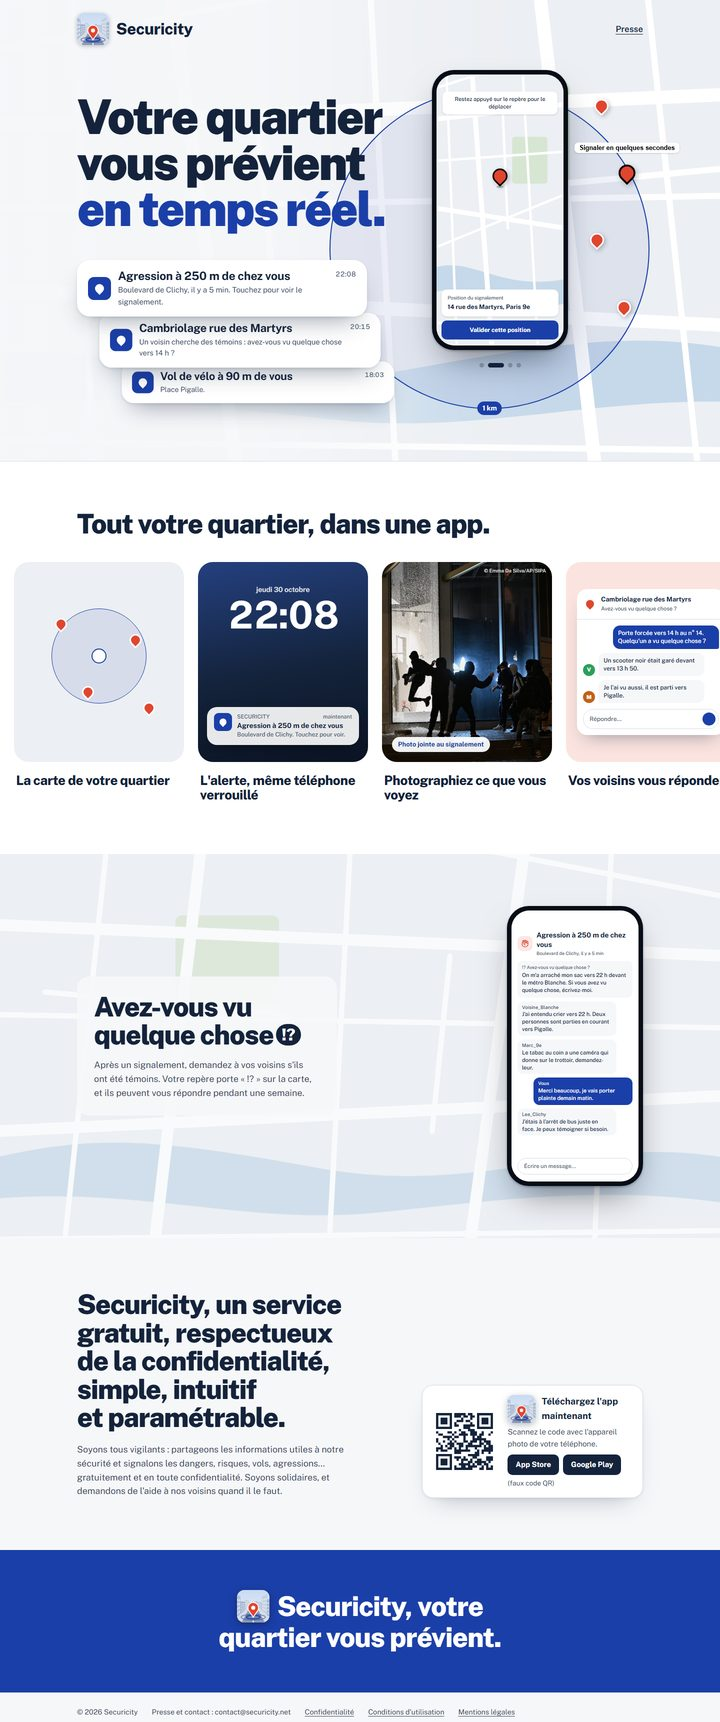
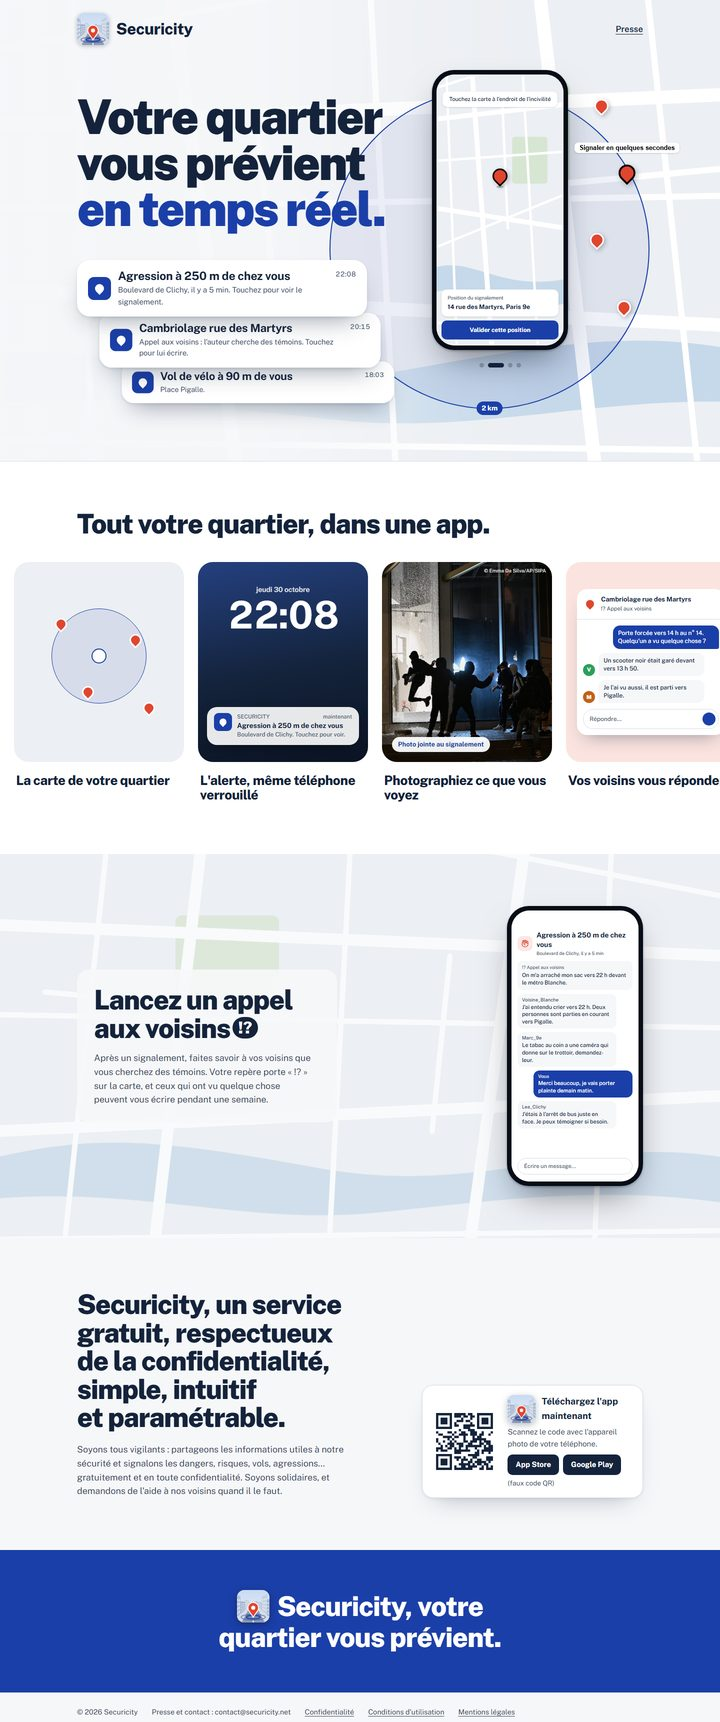
Site : « Appel aux voisins », rayon de 2 à 3 km, repère posé d'un toucher ; captures du README à jour

Changed region(s): [[0.1222, 0.554, 0.4278, 0.6463], [0.7333, 0.554, 0.8861, 0.6771], [0.2139, 0.1847, 0.2444, 0.2154]]

diff --git a/index.html b/index.html
@@ -12,7 +12,7 @@
 <link rel="stylesheet" href="https://fonts.googleapis.com/css2?family=Public+Sans:wght@400..900&display=swap">
 <style>
 /* Accueil épuré : la carte, le téléphone, le titre. Le reste se découvre en descendant :
-   les alertes qui tombent une à une sous le titre, le carrousel des fonctions, la discussion « Avez-vous vu quelque chose ? ». */
+   les alertes qui tombent une à une sous le titre, le carrousel des fonctions, l’appel aux voisins et sa discussion. */
 :root{
   --bleu:#1B3FA8; --encre:#14233B; --texte2:#3B4960; --rouge:#E0452F; --police:#0B2A6F;
   --fond:#F6F7F9; --blanc:#FFFFFF; --filet:#D5DBE4;
@@ -185,7 +185,7 @@ h1 em{font-style:normal;color:var(--bleu)}
 .v-types .type svg{width:15px;height:15px}
 .v-types .type.choisi{outline:2px solid var(--bleu);background:#F1F4FC}
 
-/* ---------- Avez-vous vu quelque chose ? ---------- */
+/* ---------- Appel aux voisins ---------- */
 .temoins{position:relative;overflow:hidden;background:var(--sol)}
 .temoins .fond{position:absolute;inset:0;width:100%;height:100%;opacity:.7}
 .temoins .in{position:relative;max-width:1180px;margin:0 auto;padding:104px 24px;display:grid;grid-template-columns:minmax(0,1fr) auto;gap:48px 80px;align-items:center}
@@ -297,7 +297,7 @@ h1 em{font-style:normal;color:var(--bleu)}
 
 <section class="accueil">
   <svg class="fond" viewBox="0 0 1600 900" preserveAspectRatio="xMidYMid slice" aria-hidden="true"><use href="#quartier"/></svg>
-  <div class="zone" aria-hidden="true"><span>1 km</span></div>
+  <div class="zone" aria-hidden="true"><span>2 km</span></div>
   <div class="chez" aria-hidden="true"><i data-lucide="map-pin-house"></i></div>
 
   <header class="entete"><a class="marque" href="/" aria-label="Securicity, accueil"><img class="icone-app" src="/images/icone.svg" alt="" width="44" height="44">Securicity</a><a class="presse" href="#pied">Presse</a></header>
@@ -306,7 +306,7 @@ h1 em{font-style:normal;color:var(--bleu)}
       <h1>Votre quartier vous prévient <em>en temps réel.</em></h1>
       <div class="pile" data-pile aria-label="Exemples d'alertes">
         <div class="notif"><span class="ico"><i></i></span><b>Agression à 250 m de chez vous</b><small class="tab">22:08</small><span>Boulevard de Clichy, il y a 5 min. Touchez pour voir le signalement.</span></div>
-        <div class="notif"><span class="ico"><i></i></span><b>Cambriolage rue des Martyrs</b><small class="tab">20:15</small><span>Un voisin cherche des témoins : avez-vous vu quelque chose vers 14 h ?</span></div>
+        <div class="notif"><span class="ico"><i></i></span><b>Cambriolage rue des Martyrs</b><small class="tab">20:15</small><span>Appel aux voisins : l’auteur cherche des témoins. Touchez pour lui écrire.</span></div>
         <div class="notif"><span class="ico"><i></i></span><b>Vol de vélo à 90 m de vous</b><small class="tab">18:03</small><span>Place Pigalle.</span></div>
       </div>
     </div>
@@ -324,9 +324,9 @@ h1 em{font-style:normal;color:var(--bleu)}
     <div class="atout"><div class="visuel v-carte"><svg class="carte" viewBox="0 0 260 560" preserveAspectRatio="xMidYMid slice" aria-hidden="true"><use href="#plan"/></svg><div class="rayon"></div><div class="maison"><i data-lucide="map-pin-house"></i></div><div class="pin" style="left:24%;top:28%"></div><div class="pin" style="left:68%;top:36%"></div><div class="pin" style="left:40%;top:62%"></div><div class="pin" style="left:76%;top:70%"></div></div><h3>La carte de votre quartier</h3></div>
     <div class="atout"><div class="visuel v-verrou"><div class="heure"><small>jeudi 30 octobre</small><b class="tab">22:08</b></div><div class="banniere"><span class="app"><i></i></span><small><span>SECURICITY</span><span>maintenant</span></small><b>Agression à 250 m de chez vous</b><span class="texte-b">Boulevard de Clichy. Touchez pour voir.</span></div></div><h3>L'alerte, même téléphone verrouillé</h3></div>
     <div class="atout"><div class="visuel v-photo"><img src="/images/pillage-vitrine.jpg" alt="Des jeunes encapuchonnés brisent la vitrine d'un magasin, la nuit" loading="lazy" width="680" height="800"><small class="credit">© Emma Da Silva/AP/SIPA</small><span class="puce"><i data-lucide="camera"></i>Photo jointe au signalement</span></div><h3>Photographiez ce que vous voyez</h3></div>
-    <div class="atout"><div class="visuel v-chat"><div class="fenetre"><div class="barre"><span class="mini-pin"></span><div><b>Cambriolage rue des Martyrs</b><br><small>Avez-vous vu quelque chose ?</small></div></div><div class="echanges"><div class="ligne-msg moi"><div class="b">Porte forcée vers 14 h au n° 14. Quelqu'un a vu quelque chose ?</div></div><div class="ligne-msg"><span class="avatar" style="background:#2E9E5B">V</span><div class="b">Un scooter noir était garé devant vers 13 h 50.</div></div><div class="ligne-msg"><span class="avatar" style="background:#C2611A">M</span><div class="b">Je l'ai vu aussi, il est parti vers Pigalle.</div></div></div><div class="envoi">Répondre…<span><i data-lucide="send"></i></span></div></div></div><h3>Vos voisins vous répondent</h3></div>
+    <div class="atout"><div class="visuel v-chat"><div class="fenetre"><div class="barre"><span class="mini-pin"></span><div><b>Cambriolage rue des Martyrs</b><br><small>!? Appel aux voisins</small></div></div><div class="echanges"><div class="ligne-msg moi"><div class="b">Porte forcée vers 14 h au n° 14. Quelqu'un a vu quelque chose ?</div></div><div class="ligne-msg"><span class="avatar" style="background:#2E9E5B">V</span><div class="b">Un scooter noir était garé devant vers 13 h 50.</div></div><div class="ligne-msg"><span class="avatar" style="background:#C2611A">M</span><div class="b">Je l'ai vu aussi, il est parti vers Pigalle.</div></div></div><div class="envoi">Répondre…<span><i data-lucide="send"></i></span></div></div></div><h3>Vos voisins vous répondent</h3></div>
     <div class="atout"><div class="visuel v-adresses"><svg class="france" viewBox="0 0 220 220" aria-hidden="true"><path d="M112 14L132 26L150 30L176 46L196 58L190 82L182 98L188 112L182 128L194 146L190 160L170 168L150 178L128 180L112 190L100 204L78 198L56 192L50 176L58 150L54 128L44 108L30 96L10 84L18 72L42 74L56 62L62 46L82 40L98 30Z" fill="#FFFFFF" stroke="#C6D2E5" stroke-width="3" stroke-linejoin="round"/><path d="M204 176L210 186L208 204L200 210L196 194Z" fill="#FFFFFF" stroke="#C6D2E5" stroke-width="3" stroke-linejoin="round"/><path d="M104 64Q168 96 146 164" fill="none" stroke="#1B3FA8" stroke-width="2.5" stroke-dasharray="6 6" stroke-linecap="round"/><circle cx="104" cy="64" r="20" fill="rgba(27,63,168,.14)" stroke="#1B3FA8" stroke-width="2"/><circle cx="146" cy="164" r="20" fill="rgba(27,63,168,.08)" stroke="#1B3FA8" stroke-width="2" stroke-dasharray="4 3"/><g fill="#FFFFFF" stroke="#1B3FA8" stroke-width="2.4"><circle cx="104" cy="64" r="11"/><circle cx="146" cy="164" r="11"/></g><path d="M98 66.5L104 61.5L110 66.5V70H98Z" fill="#1B3FA8"/><path d="M142 158H150V170L146 167L142 170Z" fill="#1B3FA8"/><g font-family="Public Sans,system-ui,sans-serif" font-weight="700" font-size="11" fill="#14233B" text-anchor="middle"><text x="104" y="98">Paris</text><text x="146" y="198">Marseille</text></g><rect x="148" y="98" width="50" height="19" rx="9.5" fill="#1B3FA8"/><text x="173" y="111.5" font-family="Public Sans,system-ui,sans-serif" font-weight="700" font-size="10.5" fill="#FFFFFF" text-anchor="middle">775 km</text></svg><div class="raccourcis"><span class="on"><i data-lucide="map-pin-house"></i>Chez moi</span><span><i data-lucide="bookmark"></i>Parents</span></div></div><h3>Toutes vos adresses, d'un geste</h3></div>
-    <div class="atout"><div class="visuel v-rayon"><div class="reglages"><small style="color:var(--app-discret)">Rayon d'alerte</small><div class="valeur"><span class="rond">−</span><b class="tab">1 km</b><span class="rond">+</span></div><div class="ligne"><span>Autour de moi</span><span class="interrupteur"></span></div><div class="ligne"><span>Autour de chez moi</span><span class="interrupteur"></span></div></div></div><h3>Votre rayon, de 1 à 3 km</h3></div>
+    <div class="atout"><div class="visuel v-rayon"><div class="reglages"><small style="color:var(--app-discret)">Rayon d'alerte</small><div class="valeur"><span class="rond">−</span><b class="tab">2 km</b><span class="rond">+</span></div><div class="ligne"><span>Autour de moi</span><span class="interrupteur"></span></div><div class="ligne"><span>Autour de chez moi</span><span class="interrupteur"></span></div></div></div><h3>Votre rayon, de 2 à 3 km</h3></div>
     <div class="atout"><div class="visuel v-types"><div class="nuage"><span class="type"><span><i data-lucide="spray-can"></i></span>Tag</span><span class="type"><span><i data-lucide="package-x"></i></span>Dépôt sauvage</span><span class="type"><span><i data-lucide="megaphone"></i></span>Nuisances sonores</span><span class="type choisi"><span><i data-lucide="bike"></i></span>Vol de vélo</span><span class="type"><span><i data-lucide="house"></i></span>Cambriolage</span><span class="type"><span><i data-lucide="car"></i></span>Stationnement gênant</span><span class="type"><span><i data-lucide="hand-fist"></i></span>Agression</span><span class="type"><span><i data-lucide="motorbike"></i></span>Vol de scooter</span><span class="type"><span><i data-lucide="speech"></i></span>Harcèlement de rue</span><span class="type"><span><i data-lucide="bomb"></i></span>Vandalisme</span><span class="type"><span><i data-lucide="footprints"></i></span>Rôdeur</span></div></div><h3>17 types d'incivilités</h3></div>
   </div>
 </section>
@@ -335,13 +335,13 @@ h1 em{font-style:normal;color:var(--bleu)}
   <svg class="fond" viewBox="0 0 1600 900" preserveAspectRatio="xMidYMid slice" aria-hidden="true"><use href="#quartier" transform="translate(1600 0) scale(-1 1)"/></svg>
   <div class="in">
     <div class="texte">
-      <h2>Avez-vous vu quelque chose<span class="pq-titre">!?</span></h2>
-      <p>Après un signalement, demandez à vos voisins s'ils ont été témoins. Votre repère porte « !? » sur la carte, et ils peuvent vous répondre pendant une semaine.</p>
+      <h2>Lancez un appel aux voisins<span class="pq-titre">!?</span></h2>
+      <p>Après un signalement, faites savoir à vos voisins que vous cherchez des témoins. Votre repère porte « !? » sur la carte, et ceux qui ont vu quelque chose peuvent vous écrire pendant une semaine.</p>
     </div>
     <div class="tel">
       <div class="coque" data-discussion><div class="vitre"><div class="page" style="padding-bottom:14px">
         <div class="titre"><span class="icone"><i data-lucide="hand-fist"></i></span><div><b style="font-size:14px">Agression à 250 m de chez vous</b><br><small style="color:var(--app-discret)">Boulevard de Clichy, il y a 5 min</small></div></div>
-        <div class="question"><small style="color:var(--app-discret)">!? Avez-vous vu quelque chose ?</small>On m'a arraché mon sac vers 22 h devant le métro Blanche. Si vous avez vu quelque chose, écrivez-moi.</div>
+        <div class="question"><small style="color:var(--app-discret)">!? Appel aux voisins</small>On m'a arraché mon sac vers 22 h devant le métro Blanche.</div>
         <div class="fil" data-fil aria-live="polite"></div>
         <div class="saisie">Écrire un message…</div>
       </div></div></div>
@@ -375,7 +375,7 @@ h1 em{font-style:normal;color:var(--bleu)}
 const calme = matchMedia('(prefers-reduced-motion: reduce)').matches;
 
 // ---------- Téléphone de l'accueil : quatre écrans qui défilent ----------
-const titres = ['La carte de votre quartier', 'Signaler en quelques secondes', 'Avez-vous vu quelque chose ?', 'Prévenu au bon moment'];
+const titres = ['La carte de votre quartier', 'Signaler en quelques secondes', 'Appel aux voisins', 'Prévenu au bon moment'];
 const DUREE = 3500;
 const carte = '<svg class="carte" viewBox="0 0 260 560" preserveAspectRatio="xMidYMid slice" aria-hidden="true"><use href="#plan"/></svg>';
 const onglets = '<div class="onglets"><span class="on">Carte</span><span>Mes posts</span><span class="plus">+</span><span>Alertes</span><span>Profil</span></div>';
@@ -386,11 +386,11 @@ const ecrans = [
    <div class="pin" style="left:74%;top:62%"></div><div class="pin" style="left:13%;top:50%"></div>
    <div class="haut"><div class="champ">Rechercher une adresse</div></div><div class="bas">${onglets}</div>`,
   `${carte}<div class="ombre" style="left:calc(50% - 7px);top:41%"></div><div class="pin gros" style="left:calc(50% - 15px);top:calc(41% - 34px)"></div>
-   <div class="haut"><div class="bulle">Restez appuyé sur le repère pour le déplacer</div></div>
+   <div class="haut"><div class="bulle">Touchez la carte à l’endroit de l’incivilité</div></div>
    <div class="bas"><div class="carton"><small>Position du signalement</small><b>14 rue des Martyrs, Paris 9e</b></div><div class="bouton">Valider cette position</div></div>`,
   `<div class="page"><div class="photo"></div>
    <div class="titre"><span class="icone"><i data-lucide="house"></i></span><div><b style="font-size:14px">Cambriolage</b><br><small style="color:var(--app-discret)">Rue des Martyrs, il y a 2 h</small></div></div>
-   <div class="question"><small style="color:var(--app-discret)">!? Avez-vous vu quelque chose ?</small>Porte forcée vers 14 h. Si vous avez vu quelque chose, merci de me le dire.</div>
+   <div class="question"><small style="color:var(--app-discret)">!? Appel aux voisins</small>Porte forcée vers 14 h.</div>
    <div class="msg"><small>Voisine_Martyrs</small>Un scooter noir était garé devant le 14 vers 13 h 50.</div>
    <div class="msg moi"><small>Vous</small>Merci, vous avez vu la plaque ?</div></div>`,
   `<div class="page" style="background:linear-gradient(180deg,#DCE3EC,#F6F7F9 45%)">

diff --git a/confidentialite/index.html b/confidentialite/index.html
@@ -14,7 +14,7 @@
 <header class="entete"><a class="marque" href="/"><img class="icone-app" src="/images/icone.svg" alt="" width="30" height="30">Securicity</a></header>
 <main>
 <h1>Politique de confidentialité</h1>
-<p class="maj">Dernière mise à jour : 1er novembre 2026</p>
+<p class="maj">Dernière mise à jour : 2 novembre 2026</p>
 
 <section class="bref">
   <h2>En bref</h2>
@@ -42,7 +42,7 @@
   <tr><td>Réglages (rayon d'alerte, notifications, apparence)</td><td>Faire fonctionner l'application comme vous l'avez choisi</td><td>Vous seul</td></tr>
   <tr><td>Identifiant de notification du téléphone</td><td>Vous envoyer les alertes</td><td>Personne ; il est effacé quand vous vous déconnectez</td></tr>
   <tr><td>Vos signalements : type, lieu, adresse approximative, date, description, description des personnes impliquées, photo facultative</td><td>Les publier sur la carte et prévenir les voisins</td><td>Tous les utilisateurs connectés, avec votre pseudo</td></tr>
-  <tr><td>Messages dans « Avez-vous vu quelque chose ? »</td><td>Permettre aux témoins de répondre</td><td>Tous les utilisateurs connectés</td></tr>
+  <tr><td>Messages dans un « Appel aux voisins »</td><td>Permettre aux témoins de répondre</td><td>Tous les utilisateurs connectés</td></tr>
   <tr><td>Signalements de posts, demandes de réexamen, personnes bloquées</td><td>Modérer le service et vous protéger</td><td>Vous et le modérateur</td></tr>
   <tr><td>Alertes reçues</td><td>Afficher l'onglet Alertes</td><td>Vous seul</td></tr>
   <tr><td>Données techniques (adresse IP, date de connexion, journaux d'erreurs)</td><td>Sécurité du service et correction des pannes</td><td>L'éditeur et l'hébergeur</td></tr>

diff --git a/README.md b/README.md
@@ -26,7 +26,7 @@
       <ol>
         <li>Titre, alertes qui apparaissent une à une au défilement, téléphone qui montre l'app</li>
         <li>Carrousel « Tout votre quartier, dans une app »</li>
-        <li>« Avez-vous vu quelque chose ? » : la discussion se remplit message par message</li>
+        <li>« Lancez un appel aux voisins » : la discussion se remplit message par message</li>
         <li>Téléchargement</li>
         <li>Slogan et pied de page</li>
       </ol>
